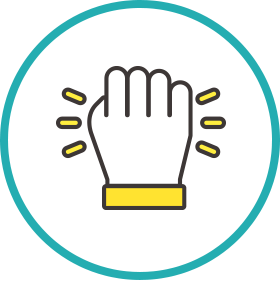
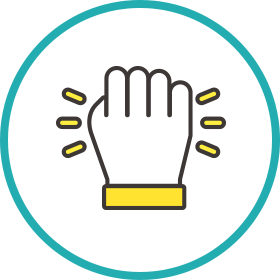
유산재단 수정

diff --git a/heritage/css/index.css b/heritage/css/index.css
@@ -116,7 +116,7 @@
 #foundation .line-bx:after{content:'';display:block;width:1px;position:absolute;top:0;bottom:0;left:calc(50% - 2px);background:#c3e5e8}
 #foundation h2{margin-bottom:30px;} 
 
-#foundation h2 img{display:block;width:100%;}
+#foundation h2 img{display:block;width:100%;image-rendering:pixelated;}
 #foundation .short-list{position:relative;}
 #foundation .short-list:before{content:'';display:block;position:absolute;left:-100px;right:-100px;top:0;height:1px;background:#c3e5e8;}
 
